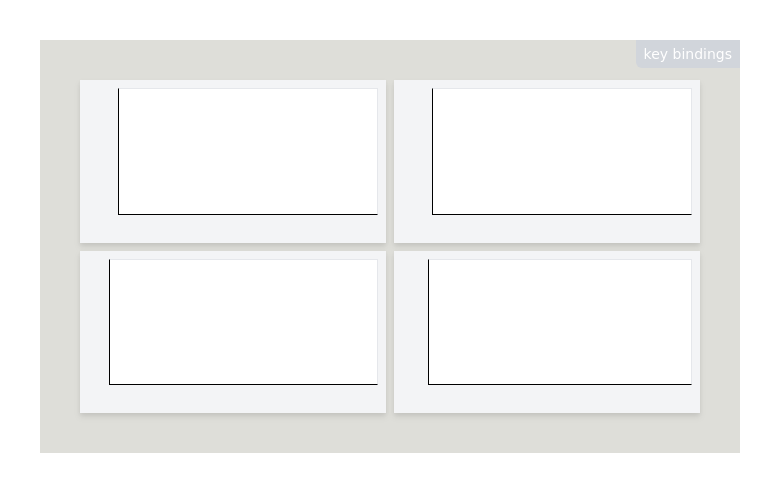
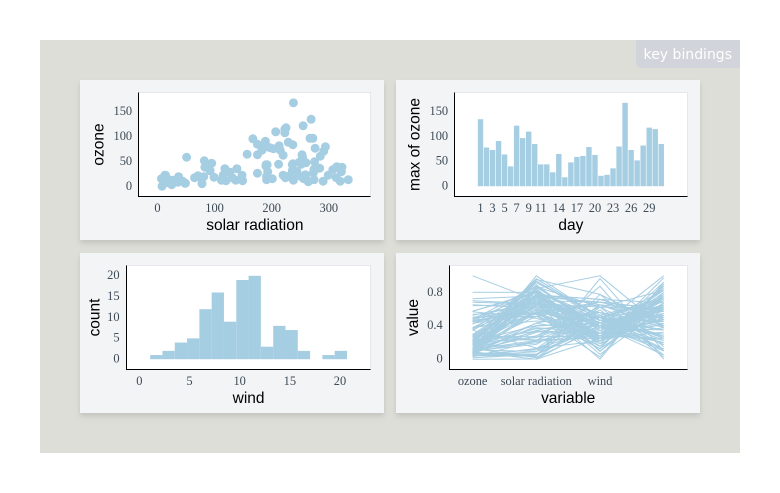
Re-rendered figure in README

diff --git a/README.md b/README.md
@@ -42,6 +42,7 @@ create_schema(airquality) |>
   render()
 #> Warning in create_schema(airquality): Removed 42 rows with missing values from
 #> the data
+#> file:////tmp/RtmpV5fr7h/file6b18100e2285/widget6b183f569082.html screenshot completed
 ```
 
 <img src="man/figures/readme1.pngunnamed-chunk-3-1.png" style="display: block; margin: auto;" />
